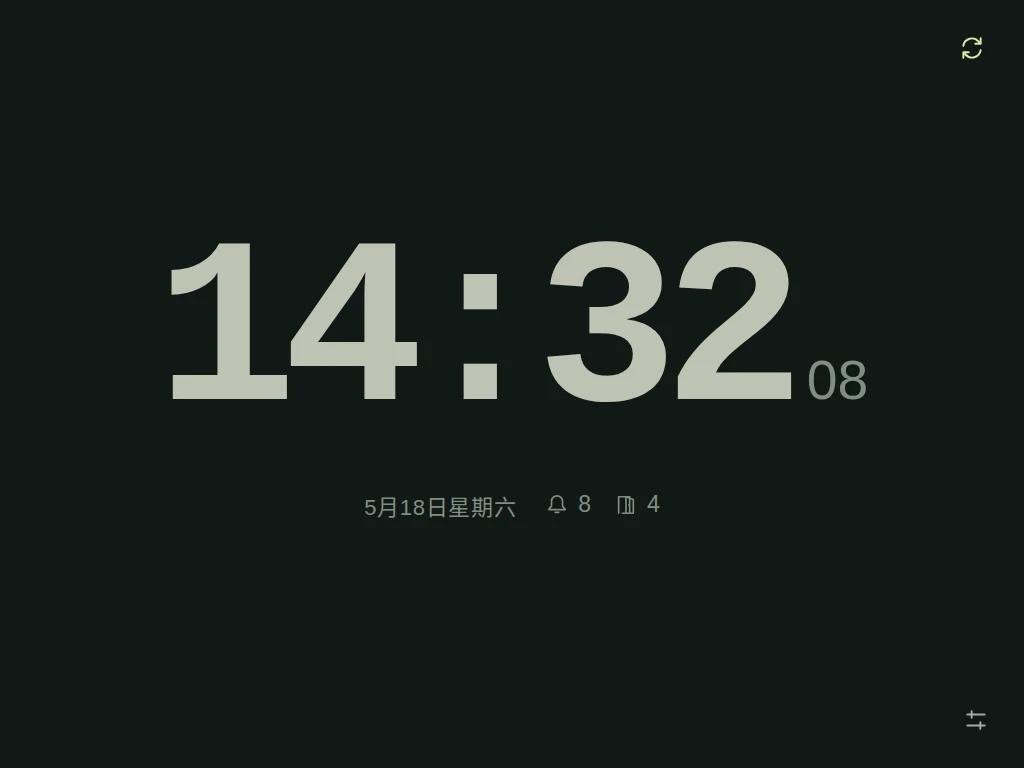
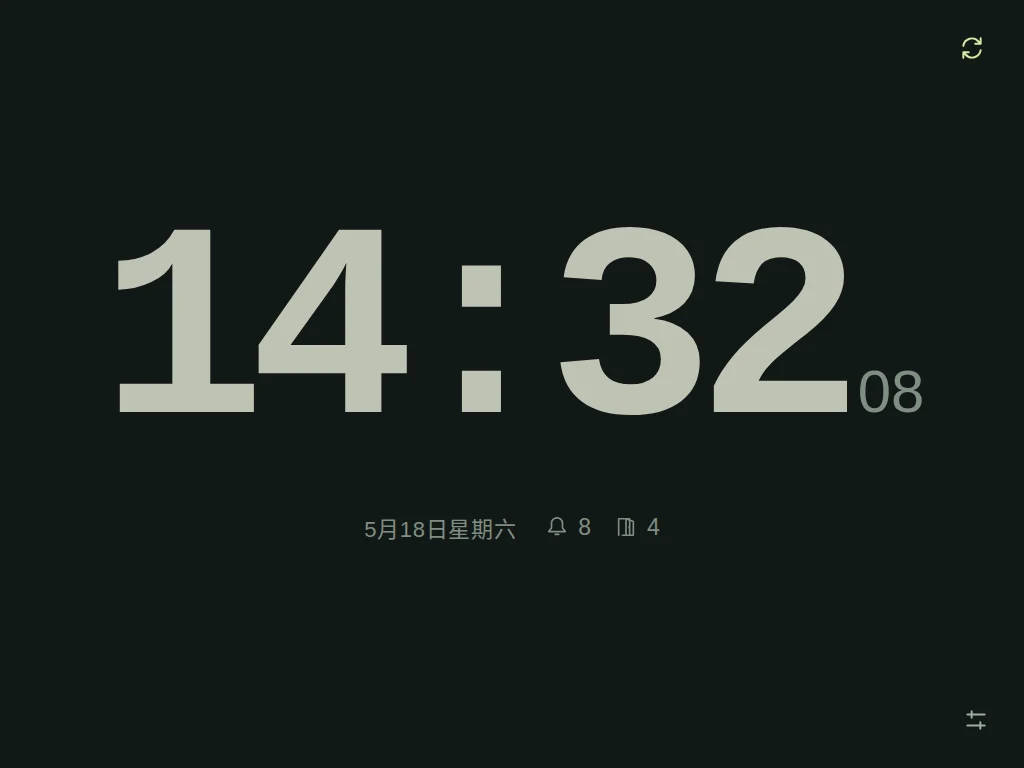
Improve tablet clock sizing and Safari fullscreen controls

diff --git a/docs/demo/index.html b/docs/demo/index.html
@@ -2,6 +2,6 @@
 <html lang="zh-CN"><meta charset="utf-8"><meta name="viewport" content="width=device-width, initial-scale=1">
 <title>Fermax Lynx · 界面图集</title><style>
 :root{color-scheme:dark;font-family:system-ui,sans-serif;background:#101d1c;color:#eceee6}*{box-sizing:border-box}body{margin:0}header{padding:28px 32px;border-bottom:1px solid #42534d}h1{font-size:32px;margin:0 0 12px}p{line-height:1.65;color:#b5c2b9}main{display:grid;grid-template-columns:280px minmax(0,1fr)}nav{padding:20px;display:grid;gap:8px;align-content:start;max-height:calc(100vh - 170px);overflow:auto;position:sticky;top:0}button{font:inherit;font-size:16px;text-align:left;color:inherit;border:1px solid #41514c;background:transparent;border-radius:8px;padding:12px;min-height:48px;cursor:pointer}button[aria-pressed=true]{background:#dbe9cd;color:#17231d}button:focus-visible,a:focus-visible{outline:3px solid #ebc777;outline-offset:3px}section{padding:24px;min-width:0}figure{margin:0}figure[hidden]{display:none}h2{margin:0;font-size:25px}img{display:block;max-width:100%;max-height:78vh;height:auto;width:auto;margin:20px auto;border:1px solid #41514c;border-radius:12px}a{color:#dbe9cd}@media(max-width:720px){main{display:block}nav{position:static;max-height:230px;grid-template-columns:repeat(2,minmax(0,1fr))}header,section{padding:20px}h1{font-size:27px}}
-</style><header><h1>Fermax Lynx · 界面图集</h1><p>这些 v0.6.1 预览由真实界面自动截图生成。住户、入口、视频与音频均为合成示例；Screenshots show version 0.6.1 using synthetic data.</p></header><main><nav aria-label="选择界面"><button type="button" data-index="0" aria-pressed="true">铃声提醒 · Sound attention</button><button type="button" data-index="1" aria-pressed="false">安静待机 · Quiet standby</button><button type="button" data-index="2" aria-pressed="false">连接异常 · Connection notice</button><button type="button" data-index="3" aria-pressed="false">今日活动 · Daily activity</button><button type="button" data-index="4" aria-pressed="false">待机统计 · Quiet activity</button><button type="button" data-index="5" aria-pressed="false">实体首页统计 · LCD daily activity</button><button type="button" data-index="6" aria-pressed="false">网关独立响铃 · Gateway sound</button><button type="button" data-index="7" aria-pressed="false">首选设备失联 · Missing output</button><button type="button" data-index="8" aria-pressed="false">实体屏幕设置 · LCD settings</button><button type="button" data-index="9" aria-pressed="false">实体屏幕声音 · LCD sound</button><button type="button" data-index="10" aria-pressed="false">实体输出选择 · LCD outputs</button><button type="button" data-index="11" aria-pressed="false">书页时钟 · Editorial</button><button type="button" data-index="12" aria-pressed="false">数字时钟 · Digital</button><button type="button" data-index="13" aria-pressed="false">模拟时钟 · Analog</button><button type="button" data-index="14" aria-pressed="false">电子管时钟 · Nixie</button><button type="button" data-index="15" aria-pressed="false">无秒显示 · Hidden seconds</button><button type="button" data-index="16" aria-pressed="false">话机授权 · Enrollment</button><button type="button" data-index="17" aria-pressed="false">话机偏好 · Preferences</button><button type="button" data-index="18" aria-pressed="false">最近活动 · Recent activity</button><button type="button" data-index="19" aria-pressed="false">入口预览 · Preview</button><button type="button" data-index="20" aria-pressed="false">来访画面 · Incoming visit</button><button type="button" data-index="21" aria-pressed="false">响铃结束 · Ring window ended</button><button type="button" data-index="22" aria-pressed="false">本次静音 · Muted visit</button><button type="button" data-index="23" aria-pressed="false">竖屏平板 · Portrait tablet</button><button type="button" data-index="24" aria-pressed="false">手机竖屏 · Narrow screen</button><button type="button" data-index="25" aria-pressed="false">手机横屏 · Short landscape</button><button type="button" data-index="26" aria-pressed="false">画面过期 · Stale frame</button><button type="button" data-index="27" aria-pressed="false">连接中断 · Offline</button><button type="button" data-index="28" aria-pressed="false">授权撤销 · Revoked</button><button type="button" data-index="29" aria-pressed="false">限时自动开门 · Timed policy</button><button type="button" data-index="30" aria-pressed="false">无时限自动开门 · Unlimited policy</button><button type="button" data-index="31" aria-pressed="false">管理页失联 · Unknown policy state</button><button type="button" data-index="32" aria-pressed="false">放大管理页 · 200% layout</button><button type="button" data-index="33" aria-pressed="false">设置导航 · Settings navigation</button><button type="button" data-index="34" aria-pressed="false">16 首铃声 · Ringtone library</button><button type="button" data-index="35" aria-pressed="false">管理员登录 · Sign in</button><button type="button" data-index="36" aria-pressed="false">管理首页 · Dashboard</button><button type="button" data-index="37" aria-pressed="false">内置铃声 · Built-in melodies</button><button type="button" data-index="38" aria-pressed="false">自定义音乐 · Custom music</button><button type="button" data-index="39" aria-pressed="false">网关配置 · Configuration</button><button type="button" data-index="40" aria-pressed="false">密码设置 · Password</button><button type="button" data-index="41" aria-pressed="false">事件日志 · Journal</button><button type="button" data-index="42" aria-pressed="false">设备管理 · Devices</button></nav><section aria-live="polite"><figure id="view-0"><figcaption><h2>铃声提醒 · Sound attention</h2><p>待机只在需要处理时显示声音图标，轻触进入声音设置。</p></figcaption><a href="phone-quiet-sound.webp"><img src="phone-quiet-sound.webp" alt="铃声提醒 · Sound attention" loading="lazy"></a></figure><figure id="view-1" hidden><figcaption><h2>安静待机 · Quiet standby</h2><p>中央时钟与一行辅助信息，自动开门启用时留角落提示。</p></figcaption><a href="phone-quiet-auto.webp"><img src="phone-quiet-auto.webp" alt="安静待机 · Quiet standby" loading="lazy"></a></figure><figure id="view-2" hidden><figcaption><h2>连接异常 · Connection notice</h2><p>断线显示文字提示，统计不可用，旧自动状态不冒充实时。</p></figcaption><a href="phone-quiet-offline.webp"><img src="phone-quiet-offline.webp" alt="连接异常 · Connection notice" loading="lazy"></a></figure><figure id="view-3" hidden><figcaption><h2>今日活动 · Daily activity</h2><p>来电与协议确认开门，按网关本地日期汇总。</p></figcaption><a href="admin-statistics.webp"><img src="admin-statistics.webp" alt="今日活动 · Daily activity" loading="lazy"></a></figure><figure id="view-4" hidden><figcaption><h2>待机统计 · Quiet activity</h2><p>图标与数字，轻触或聚焦显示统计口径。</p></figcaption><a href="phone-statistics.webp"><img src="phone-statistics.webp" alt="待机统计 · Quiet activity" loading="lazy"></a></figure><figure id="view-5" hidden><figcaption><h2>实体首页统计 · LCD daily activity</h2><p>保持大按钮，简明显示今日来电与确认开门。</p></figcaption><a href="lcd-home.webp"><img src="lcd-home.webp" alt="实体首页统计 · LCD daily activity" loading="lazy"></a></figure><figure id="view-6" hidden><figcaption><h2>网关独立响铃 · Gateway sound</h2><p>独立开关、音量、输出选择与明确的测试声音。</p></figcaption><a href="admin-gateway-sound.webp"><img src="admin-gateway-sound.webp" alt="网关独立响铃 · Gateway sound" loading="lazy"></a></figure><figure id="view-7" hidden><figcaption><h2>首选设备失联 · Missing output</h2><p>保留首选偏好，显示设备状态并自动降级。</p></figcaption><a href="admin-gateway-no-device.webp"><img src="admin-gateway-no-device.webp" alt="首选设备失联 · Missing output" loading="lazy"></a></figure><figure id="view-8" hidden><figcaption><h2>实体屏幕设置 · LCD settings</h2><p>声音与自动开门分别进入，保留大触控按钮。</p></figcaption><a href="lcd-settings.webp"><img src="lcd-settings.webp" alt="实体屏幕设置 · LCD settings" loading="lazy"></a></figure><figure id="view-9" hidden><figcaption><h2>实体屏幕声音 · LCD sound</h2><p>本机开关、音量、实际输出及三秒试音。</p></figcaption><a href="lcd-sound.webp"><img src="lcd-sound.webp" alt="实体屏幕声音 · LCD sound" loading="lazy"></a></figure><figure id="view-10" hidden><figcaption><h2>实体输出选择 · LCD outputs</h2><p>大按钮分页选择自动或具体设备。</p></figcaption><a href="lcd-outputs.webp"><img src="lcd-outputs.webp" alt="实体输出选择 · LCD outputs" loading="lazy"></a></figure><figure id="view-11" hidden><figcaption><h2>书页时钟 · Editorial</h2><p>舒展的衬线数字与低对比度状态。</p></figcaption><a href="clock-editorial.webp"><img src="clock-editorial.webp" alt="书页时钟 · Editorial" loading="lazy"></a></figure><figure id="view-12" hidden><figcaption><h2>数字时钟 · Digital</h2><p>醒目的数字，适合远距离查看。</p></figcaption><a href="clock-digital.webp"><img src="clock-digital.webp" alt="数字时钟 · Digital" loading="lazy"></a></figure><figure id="view-13" hidden><figcaption><h2>模拟时钟 · Analog</h2><p>刻度与指针；秒针可隐藏、跳动或平滑移动。</p></figcaption><a href="clock-analog.webp"><img src="clock-analog.webp" alt="模拟时钟 · Analog" loading="lazy"></a></figure><figure id="view-14" hidden><figcaption><h2>电子管时钟 · Nixie</h2><p>由 CSS 绘制的暖色玻璃与发光数字。</p></figcaption><a href="clock-nixie.webp"><img src="clock-nixie.webp" alt="电子管时钟 · Nixie" loading="lazy"></a></figure><figure id="view-15" hidden><figcaption><h2>无秒显示 · Hidden seconds</h2><p>隐藏秒数，让空闲界面更安静。</p></figcaption><a href="clock-nixie-quiet.webp"><img src="clock-nixie-quiet.webp" alt="无秒显示 · Hidden seconds" loading="lazy"></a></figure><figure id="view-16" hidden><figcaption><h2>话机授权 · Enrollment</h2><p>管理员选择设备名称与入口范围。</p></figcaption><a href="phone-enrollment.webp"><img src="phone-enrollment.webp" alt="话机授权 · Enrollment" loading="lazy"></a></figure><figure id="view-17" hidden><figcaption><h2>话机偏好 · Preferences</h2><p>本机时钟、秒针、音量与入口预览。</p></figcaption><a href="phone-preferences.webp"><img src="phone-preferences.webp" alt="话机偏好 · Preferences" loading="lazy"></a></figure><figure id="view-18" hidden><figcaption><h2>最近活动 · Recent activity</h2><p>展开查看最近三项活动。</p></figcaption><a href="phone-recent.webp"><img src="phone-recent.webp" alt="最近活动 · Recent activity" loading="lazy"></a></figure><figure id="view-19" hidden><figcaption><h2>入口预览 · Preview</h2><p>完整保留 4:3 画面，操作浮在画面上。</p></figcaption><a href="phone-preview.webp"><img src="phone-preview.webp" alt="入口预览 · Preview" loading="lazy"></a></figure><figure id="view-20" hidden><figcaption><h2>来访画面 · Incoming visit</h2><p>紧凑标题与大触控按钮，音乐按设定时长循环。</p></figcaption><a href="phone-incoming.webp"><img src="phone-incoming.webp" alt="来访画面 · Incoming visit" loading="lazy"></a></figure><figure id="view-21" hidden><figcaption><h2>响铃结束 · Ring window ended</h2><p>音乐停止后仍可查看画面和操作。</p></figcaption><a href="phone-ring-ended.webp"><img src="phone-ring-ended.webp" alt="响铃结束 · Ring window ended" loading="lazy"></a></figure><figure id="view-22" hidden><figcaption><h2>本次静音 · Muted visit</h2><p>只静音当前来访。</p></figcaption><a href="phone-muted.webp"><img src="phone-muted.webp" alt="本次静音 · Muted visit" loading="lazy"></a></figure><figure id="view-23" hidden><figcaption><h2>竖屏平板 · Portrait tablet</h2><p>完整画面居中，保留必要留白。</p></figcaption><a href="phone-portrait.webp"><img src="phone-portrait.webp" alt="竖屏平板 · Portrait tablet" loading="lazy"></a></figure><figure id="view-24" hidden><figcaption><h2>手机竖屏 · Narrow screen</h2><p>较窄屏幕仍保留完整画面与操作。</p></figcaption><a href="phone-mobile.webp"><img src="phone-mobile.webp" alt="手机竖屏 · Narrow screen" loading="lazy"></a></figure><figure id="view-25" hidden><figcaption><h2>手机横屏 · Short landscape</h2><p>短横屏使用紧凑的覆盖控件。</p></figcaption><a href="phone-wide.webp"><img src="phone-wide.webp" alt="手机横屏 · Short landscape" loading="lazy"></a></figure><figure id="view-26" hidden><figcaption><h2>画面过期 · Stale frame</h2><p>不把旧帧当成实时画面。</p></figcaption><a href="phone-stale-video.webp"><img src="phone-stale-video.webp" alt="画面过期 · Stale frame" loading="lazy"></a></figure><figure id="view-27" hidden><figcaption><h2>连接中断 · Offline</h2><p>状态清楚呈现，断线时禁用控制。</p></figcaption><a href="phone-offline.webp"><img src="phone-offline.webp" alt="连接中断 · Offline" loading="lazy"></a></figure><figure id="view-28" hidden><figcaption><h2>授权撤销 · Revoked</h2><p>撤销后退出话机，重新授权才能使用。</p></figcaption><a href="phone-revoked.webp"><img src="phone-revoked.webp" alt="授权撤销 · Revoked" loading="lazy"></a></figure><figure id="view-29" hidden><figcaption><h2>限时自动开门 · Timed policy</h2><p>已启用时仅显示状态、截止时间和停止按钮。</p></figcaption><a href="admin-auto-timed.webp"><img src="admin-auto-timed.webp" alt="限时自动开门 · Timed policy" loading="lazy"></a></figure><figure id="view-30" hidden><figcaption><h2>无时限自动开门 · Unlimited policy</h2><p>只提供停止操作，隐藏再次启用和时长选择。</p></figcaption><a href="admin-auto-unlimited.webp"><img src="admin-auto-unlimited.webp" alt="无时限自动开门 · Unlimited policy" loading="lazy"></a></figure><figure id="view-31" hidden><figcaption><h2>管理页失联 · Unknown policy state</h2><p>无法确认服务器状态时隐藏策略操作，恢复后重新读取。</p></figcaption><a href="admin-offline.webp"><img src="admin-offline.webp" alt="管理页失联 · Unknown policy state" loading="lazy"></a></figure><figure id="view-32" hidden><figcaption><h2>放大管理页 · 200% layout</h2><p>导航自然换行，入口按钮不重叠。</p></figcaption><a href="admin-zoom.webp"><img src="admin-zoom.webp" alt="放大管理页 · 200% layout" loading="lazy"></a></figure><figure id="view-33" hidden><figcaption><h2>设置导航 · Settings navigation</h2><p>铃声、话机设备、网关配置和密码按任务分区。</p></figcaption><a href="admin-settings.webp"><img src="admin-settings.webp" alt="设置导航 · Settings navigation" loading="lazy"></a></figure><figure id="view-34" hidden><figcaption><h2>16 首铃声 · Ringtone library</h2><p>点击选择并试听，保存后用于下一次来访。</p></figcaption><a href="admin-ringtone-library.webp"><img src="admin-ringtone-library.webp" alt="16 首铃声 · Ringtone library" loading="lazy"></a></figure><figure id="view-35" hidden><figcaption><h2>管理员登录 · Sign in</h2><p>独立的管理员登录入口。</p></figcaption><a href="admin-login.webp"><img src="admin-login.webp" alt="管理员登录 · Sign in" loading="lazy"></a></figure><figure id="view-36" hidden><figcaption><h2>管理首页 · Dashboard</h2><p>网关、入口、策略与活动概览。</p></figcaption><a href="admin-dashboard.webp"><img src="admin-dashboard.webp" alt="管理首页 · Dashboard" loading="lazy"></a></figure><figure id="view-37" hidden><figcaption><h2>内置铃声 · Built-in melodies</h2><p>管理员配置铃声及 15/30/45/60 秒时长。</p></figcaption><a href="admin-ringtone.webp"><img src="admin-ringtone.webp" alt="内置铃声 · Built-in melodies" loading="lazy"></a></figure><figure id="view-38" hidden><figcaption><h2>自定义音乐 · Custom music</h2><p>导入、试听并保存自己的音乐。</p></figcaption><a href="admin-custom-music.webp"><img src="admin-custom-music.webp" alt="自定义音乐 · Custom music" loading="lazy"></a></figure><figure id="view-39" hidden><figcaption><h2>网关配置 · Configuration</h2><p>身份、接口与入口配置；保存不改变系统网卡地址。</p></figcaption><a href="admin-network.webp"><img src="admin-network.webp" alt="网关配置 · Configuration" loading="lazy"></a></figure><figure id="view-40" hidden><figcaption><h2>密码设置 · Password</h2><p>修改管理员密码。</p></figcaption><a href="admin-password.webp"><img src="admin-password.webp" alt="密码设置 · Password" loading="lazy"></a></figure><figure id="view-41" hidden><figcaption><h2>事件日志 · Journal</h2><p>查询并导出网关活动记录。</p></figcaption><a href="admin-journal.webp"><img src="admin-journal.webp" alt="事件日志 · Journal" loading="lazy"></a></figure><figure id="view-42" hidden><figcaption><h2>设备管理 · Devices</h2><p>查看设备授权及其入口范围。</p></figcaption><a href="admin-devices.webp"><img src="admin-devices.webp" alt="设备管理 · Devices" loading="lazy"></a></figure></section></main><script>
+</style><header><h1>Fermax Lynx · 界面图集</h1><p>这些 v0.6.2 预览由真实界面自动截图生成。住户、入口、视频与音频均为合成示例；Screenshots show version 0.6.2 using synthetic data.</p></header><main><nav aria-label="选择界面"><button type="button" data-index="0" aria-pressed="true">铃声提醒 · Sound attention</button><button type="button" data-index="1" aria-pressed="false">安静待机 · Quiet standby</button><button type="button" data-index="2" aria-pressed="false">连接异常 · Connection notice</button><button type="button" data-index="3" aria-pressed="false">今日活动 · Daily activity</button><button type="button" data-index="4" aria-pressed="false">待机统计 · Quiet activity</button><button type="button" data-index="5" aria-pressed="false">实体首页统计 · LCD daily activity</button><button type="button" data-index="6" aria-pressed="false">网关独立响铃 · Gateway sound</button><button type="button" data-index="7" aria-pressed="false">首选设备失联 · Missing output</button><button type="button" data-index="8" aria-pressed="false">实体屏幕设置 · LCD settings</button><button type="button" data-index="9" aria-pressed="false">实体屏幕声音 · LCD sound</button><button type="button" data-index="10" aria-pressed="false">实体输出选择 · LCD outputs</button><button type="button" data-index="11" aria-pressed="false">书页时钟 · Editorial</button><button type="button" data-index="12" aria-pressed="false">数字时钟 · Digital</button><button type="button" data-index="13" aria-pressed="false">模拟时钟 · Analog</button><button type="button" data-index="14" aria-pressed="false">电子管时钟 · Nixie</button><button type="button" data-index="15" aria-pressed="false">无秒显示 · Hidden seconds</button><button type="button" data-index="16" aria-pressed="false">话机授权 · Enrollment</button><button type="button" data-index="17" aria-pressed="false">话机偏好 · Preferences</button><button type="button" data-index="18" aria-pressed="false">最近活动 · Recent activity</button><button type="button" data-index="19" aria-pressed="false">入口预览 · Preview</button><button type="button" data-index="20" aria-pressed="false">来访画面 · Incoming visit</button><button type="button" data-index="21" aria-pressed="false">响铃结束 · Ring window ended</button><button type="button" data-index="22" aria-pressed="false">本次静音 · Muted visit</button><button type="button" data-index="23" aria-pressed="false">竖屏平板 · Portrait tablet</button><button type="button" data-index="24" aria-pressed="false">手机竖屏 · Narrow screen</button><button type="button" data-index="25" aria-pressed="false">手机横屏 · Short landscape</button><button type="button" data-index="26" aria-pressed="false">画面过期 · Stale frame</button><button type="button" data-index="27" aria-pressed="false">连接中断 · Offline</button><button type="button" data-index="28" aria-pressed="false">授权撤销 · Revoked</button><button type="button" data-index="29" aria-pressed="false">限时自动开门 · Timed policy</button><button type="button" data-index="30" aria-pressed="false">无时限自动开门 · Unlimited policy</button><button type="button" data-index="31" aria-pressed="false">管理页失联 · Unknown policy state</button><button type="button" data-index="32" aria-pressed="false">放大管理页 · 200% layout</button><button type="button" data-index="33" aria-pressed="false">设置导航 · Settings navigation</button><button type="button" data-index="34" aria-pressed="false">16 首铃声 · Ringtone library</button><button type="button" data-index="35" aria-pressed="false">管理员登录 · Sign in</button><button type="button" data-index="36" aria-pressed="false">管理首页 · Dashboard</button><button type="button" data-index="37" aria-pressed="false">内置铃声 · Built-in melodies</button><button type="button" data-index="38" aria-pressed="false">自定义音乐 · Custom music</button><button type="button" data-index="39" aria-pressed="false">网关配置 · Configuration</button><button type="button" data-index="40" aria-pressed="false">密码设置 · Password</button><button type="button" data-index="41" aria-pressed="false">事件日志 · Journal</button><button type="button" data-index="42" aria-pressed="false">设备管理 · Devices</button></nav><section aria-live="polite"><figure id="view-0"><figcaption><h2>铃声提醒 · Sound attention</h2><p>待机只在需要处理时显示声音图标，轻触进入声音设置。</p></figcaption><a href="phone-quiet-sound.webp"><img src="phone-quiet-sound.webp" alt="铃声提醒 · Sound attention" loading="lazy"></a></figure><figure id="view-1" hidden><figcaption><h2>安静待机 · Quiet standby</h2><p>中央时钟与一行辅助信息，自动开门启用时留角落提示。</p></figcaption><a href="phone-quiet-auto.webp"><img src="phone-quiet-auto.webp" alt="安静待机 · Quiet standby" loading="lazy"></a></figure><figure id="view-2" hidden><figcaption><h2>连接异常 · Connection notice</h2><p>断线显示文字提示，统计不可用，旧自动状态不冒充实时。</p></figcaption><a href="phone-quiet-offline.webp"><img src="phone-quiet-offline.webp" alt="连接异常 · Connection notice" loading="lazy"></a></figure><figure id="view-3" hidden><figcaption><h2>今日活动 · Daily activity</h2><p>来电与协议确认开门，按网关本地日期汇总。</p></figcaption><a href="admin-statistics.webp"><img src="admin-statistics.webp" alt="今日活动 · Daily activity" loading="lazy"></a></figure><figure id="view-4" hidden><figcaption><h2>待机统计 · Quiet activity</h2><p>图标与数字，轻触或聚焦显示统计口径。</p></figcaption><a href="phone-statistics.webp"><img src="phone-statistics.webp" alt="待机统计 · Quiet activity" loading="lazy"></a></figure><figure id="view-5" hidden><figcaption><h2>实体首页统计 · LCD daily activity</h2><p>保持大按钮，简明显示今日来电与确认开门。</p></figcaption><a href="lcd-home.webp"><img src="lcd-home.webp" alt="实体首页统计 · LCD daily activity" loading="lazy"></a></figure><figure id="view-6" hidden><figcaption><h2>网关独立响铃 · Gateway sound</h2><p>独立开关、音量、输出选择与明确的测试声音。</p></figcaption><a href="admin-gateway-sound.webp"><img src="admin-gateway-sound.webp" alt="网关独立响铃 · Gateway sound" loading="lazy"></a></figure><figure id="view-7" hidden><figcaption><h2>首选设备失联 · Missing output</h2><p>保留首选偏好，显示设备状态并自动降级。</p></figcaption><a href="admin-gateway-no-device.webp"><img src="admin-gateway-no-device.webp" alt="首选设备失联 · Missing output" loading="lazy"></a></figure><figure id="view-8" hidden><figcaption><h2>实体屏幕设置 · LCD settings</h2><p>声音与自动开门分别进入，保留大触控按钮。</p></figcaption><a href="lcd-settings.webp"><img src="lcd-settings.webp" alt="实体屏幕设置 · LCD settings" loading="lazy"></a></figure><figure id="view-9" hidden><figcaption><h2>实体屏幕声音 · LCD sound</h2><p>本机开关、音量、实际输出及三秒试音。</p></figcaption><a href="lcd-sound.webp"><img src="lcd-sound.webp" alt="实体屏幕声音 · LCD sound" loading="lazy"></a></figure><figure id="view-10" hidden><figcaption><h2>实体输出选择 · LCD outputs</h2><p>大按钮分页选择自动或具体设备。</p></figcaption><a href="lcd-outputs.webp"><img src="lcd-outputs.webp" alt="实体输出选择 · LCD outputs" loading="lazy"></a></figure><figure id="view-11" hidden><figcaption><h2>书页时钟 · Editorial</h2><p>舒展的衬线数字与低对比度状态。</p></figcaption><a href="clock-editorial.webp"><img src="clock-editorial.webp" alt="书页时钟 · Editorial" loading="lazy"></a></figure><figure id="view-12" hidden><figcaption><h2>数字时钟 · Digital</h2><p>醒目的数字，适合远距离查看。</p></figcaption><a href="clock-digital.webp"><img src="clock-digital.webp" alt="数字时钟 · Digital" loading="lazy"></a></figure><figure id="view-13" hidden><figcaption><h2>模拟时钟 · Analog</h2><p>刻度与指针；秒针可隐藏、跳动或平滑移动。</p></figcaption><a href="clock-analog.webp"><img src="clock-analog.webp" alt="模拟时钟 · Analog" loading="lazy"></a></figure><figure id="view-14" hidden><figcaption><h2>电子管时钟 · Nixie</h2><p>由 CSS 绘制的暖色玻璃与发光数字。</p></figcaption><a href="clock-nixie.webp"><img src="clock-nixie.webp" alt="电子管时钟 · Nixie" loading="lazy"></a></figure><figure id="view-15" hidden><figcaption><h2>无秒显示 · Hidden seconds</h2><p>隐藏秒数，让空闲界面更安静。</p></figcaption><a href="clock-nixie-quiet.webp"><img src="clock-nixie-quiet.webp" alt="无秒显示 · Hidden seconds" loading="lazy"></a></figure><figure id="view-16" hidden><figcaption><h2>话机授权 · Enrollment</h2><p>管理员选择设备名称与入口范围。</p></figcaption><a href="phone-enrollment.webp"><img src="phone-enrollment.webp" alt="话机授权 · Enrollment" loading="lazy"></a></figure><figure id="view-17" hidden><figcaption><h2>话机偏好 · Preferences</h2><p>本机时钟、秒针、音量与入口预览。</p></figcaption><a href="phone-preferences.webp"><img src="phone-preferences.webp" alt="话机偏好 · Preferences" loading="lazy"></a></figure><figure id="view-18" hidden><figcaption><h2>最近活动 · Recent activity</h2><p>展开查看最近三项活动。</p></figcaption><a href="phone-recent.webp"><img src="phone-recent.webp" alt="最近活动 · Recent activity" loading="lazy"></a></figure><figure id="view-19" hidden><figcaption><h2>入口预览 · Preview</h2><p>完整保留 4:3 画面，操作浮在画面上。</p></figcaption><a href="phone-preview.webp"><img src="phone-preview.webp" alt="入口预览 · Preview" loading="lazy"></a></figure><figure id="view-20" hidden><figcaption><h2>来访画面 · Incoming visit</h2><p>紧凑标题与大触控按钮，音乐按设定时长循环。</p></figcaption><a href="phone-incoming.webp"><img src="phone-incoming.webp" alt="来访画面 · Incoming visit" loading="lazy"></a></figure><figure id="view-21" hidden><figcaption><h2>响铃结束 · Ring window ended</h2><p>音乐停止后仍可查看画面和操作。</p></figcaption><a href="phone-ring-ended.webp"><img src="phone-ring-ended.webp" alt="响铃结束 · Ring window ended" loading="lazy"></a></figure><figure id="view-22" hidden><figcaption><h2>本次静音 · Muted visit</h2><p>只静音当前来访。</p></figcaption><a href="phone-muted.webp"><img src="phone-muted.webp" alt="本次静音 · Muted visit" loading="lazy"></a></figure><figure id="view-23" hidden><figcaption><h2>竖屏平板 · Portrait tablet</h2><p>完整画面居中，保留必要留白。</p></figcaption><a href="phone-portrait.webp"><img src="phone-portrait.webp" alt="竖屏平板 · Portrait tablet" loading="lazy"></a></figure><figure id="view-24" hidden><figcaption><h2>手机竖屏 · Narrow screen</h2><p>较窄屏幕仍保留完整画面与操作。</p></figcaption><a href="phone-mobile.webp"><img src="phone-mobile.webp" alt="手机竖屏 · Narrow screen" loading="lazy"></a></figure><figure id="view-25" hidden><figcaption><h2>手机横屏 · Short landscape</h2><p>短横屏使用紧凑的覆盖控件。</p></figcaption><a href="phone-wide.webp"><img src="phone-wide.webp" alt="手机横屏 · Short landscape" loading="lazy"></a></figure><figure id="view-26" hidden><figcaption><h2>画面过期 · Stale frame</h2><p>不把旧帧当成实时画面。</p></figcaption><a href="phone-stale-video.webp"><img src="phone-stale-video.webp" alt="画面过期 · Stale frame" loading="lazy"></a></figure><figure id="view-27" hidden><figcaption><h2>连接中断 · Offline</h2><p>状态清楚呈现，断线时禁用控制。</p></figcaption><a href="phone-offline.webp"><img src="phone-offline.webp" alt="连接中断 · Offline" loading="lazy"></a></figure><figure id="view-28" hidden><figcaption><h2>授权撤销 · Revoked</h2><p>撤销后退出话机，重新授权才能使用。</p></figcaption><a href="phone-revoked.webp"><img src="phone-revoked.webp" alt="授权撤销 · Revoked" loading="lazy"></a></figure><figure id="view-29" hidden><figcaption><h2>限时自动开门 · Timed policy</h2><p>已启用时仅显示状态、截止时间和停止按钮。</p></figcaption><a href="admin-auto-timed.webp"><img src="admin-auto-timed.webp" alt="限时自动开门 · Timed policy" loading="lazy"></a></figure><figure id="view-30" hidden><figcaption><h2>无时限自动开门 · Unlimited policy</h2><p>只提供停止操作，隐藏再次启用和时长选择。</p></figcaption><a href="admin-auto-unlimited.webp"><img src="admin-auto-unlimited.webp" alt="无时限自动开门 · Unlimited policy" loading="lazy"></a></figure><figure id="view-31" hidden><figcaption><h2>管理页失联 · Unknown policy state</h2><p>无法确认服务器状态时隐藏策略操作，恢复后重新读取。</p></figcaption><a href="admin-offline.webp"><img src="admin-offline.webp" alt="管理页失联 · Unknown policy state" loading="lazy"></a></figure><figure id="view-32" hidden><figcaption><h2>放大管理页 · 200% layout</h2><p>导航自然换行，入口按钮不重叠。</p></figcaption><a href="admin-zoom.webp"><img src="admin-zoom.webp" alt="放大管理页 · 200% layout" loading="lazy"></a></figure><figure id="view-33" hidden><figcaption><h2>设置导航 · Settings navigation</h2><p>铃声、话机设备、网关配置和密码按任务分区。</p></figcaption><a href="admin-settings.webp"><img src="admin-settings.webp" alt="设置导航 · Settings navigation" loading="lazy"></a></figure><figure id="view-34" hidden><figcaption><h2>16 首铃声 · Ringtone library</h2><p>点击选择并试听，保存后用于下一次来访。</p></figcaption><a href="admin-ringtone-library.webp"><img src="admin-ringtone-library.webp" alt="16 首铃声 · Ringtone library" loading="lazy"></a></figure><figure id="view-35" hidden><figcaption><h2>管理员登录 · Sign in</h2><p>独立的管理员登录入口。</p></figcaption><a href="admin-login.webp"><img src="admin-login.webp" alt="管理员登录 · Sign in" loading="lazy"></a></figure><figure id="view-36" hidden><figcaption><h2>管理首页 · Dashboard</h2><p>网关、入口、策略与活动概览。</p></figcaption><a href="admin-dashboard.webp"><img src="admin-dashboard.webp" alt="管理首页 · Dashboard" loading="lazy"></a></figure><figure id="view-37" hidden><figcaption><h2>内置铃声 · Built-in melodies</h2><p>管理员配置铃声及 15/30/45/60 秒时长。</p></figcaption><a href="admin-ringtone.webp"><img src="admin-ringtone.webp" alt="内置铃声 · Built-in melodies" loading="lazy"></a></figure><figure id="view-38" hidden><figcaption><h2>自定义音乐 · Custom music</h2><p>导入、试听并保存自己的音乐。</p></figcaption><a href="admin-custom-music.webp"><img src="admin-custom-music.webp" alt="自定义音乐 · Custom music" loading="lazy"></a></figure><figure id="view-39" hidden><figcaption><h2>网关配置 · Configuration</h2><p>身份、接口与入口配置；保存不改变系统网卡地址。</p></figcaption><a href="admin-network.webp"><img src="admin-network.webp" alt="网关配置 · Configuration" loading="lazy"></a></figure><figure id="view-40" hidden><figcaption><h2>密码设置 · Password</h2><p>修改管理员密码。</p></figcaption><a href="admin-password.webp"><img src="admin-password.webp" alt="密码设置 · Password" loading="lazy"></a></figure><figure id="view-41" hidden><figcaption><h2>事件日志 · Journal</h2><p>查询并导出网关活动记录。</p></figcaption><a href="admin-journal.webp"><img src="admin-journal.webp" alt="事件日志 · Journal" loading="lazy"></a></figure><figure id="view-42" hidden><figcaption><h2>设备管理 · Devices</h2><p>查看设备授权及其入口范围。</p></figcaption><a href="admin-devices.webp"><img src="admin-devices.webp" alt="设备管理 · Devices" loading="lazy"></a></figure></section></main><script>
 document.querySelectorAll('nav button').forEach(button=>button.addEventListener('click',()=>{document.querySelectorAll('nav button').forEach(item=>item.setAttribute('aria-pressed',String(item===button)));document.querySelectorAll('figure').forEach((figure,index)=>figure.hidden=String(index)!==button.dataset.index)}));
 </script></html>

diff --git a/fermax/web/phone.js b/fermax/web/phone.js
@@ -17,6 +17,7 @@
     open_denied:'开门被拒绝', control_failed:'操作未完成'};
 
   const icons = {
+    fullscreen:'M8 3H3v5m13-5h5v5M3 16v5h5m8 0h5v-5',
     bell:'M6 8a6 6 0 0 1 12 0v5l3 4H3l3-4V8m4 12h4',
     door:'M4 21V3h12v18M8 21h12V6l-8-3v18m3-9h.01',
     link:'M9 15l6-6M8 17l-1 1a4 4 0 0 1-6-6l4-4a4 4 0 0 1 6 0m2 0 1-1a4 4 0 0 1 6 6l-4 4a4 4 0 0 1-6 0',
@@ -117,6 +118,12 @@
     if (!wall) return;
     const face=$('#clockFace'), width=face.clientWidth;
     if(width && face.style.getPropertyValue('--face-width')!==width+'px') face.style.setProperty('--face-width',width+'px');
+    const idle=$('#idle'), layout=getComputedStyle(idle);
+    // clientWidth uses layout units, so divide viewport height by CSS zoom as well.
+    const scale=idle.clientWidth ? idle.getBoundingClientRect().width/idle.clientWidth : 1;
+    const height=Math.max(80,window.innerHeight/(scale || 1)-parseFloat(layout.paddingTop)-parseFloat(layout.paddingBottom)-$('.idle-summary').offsetHeight-26);
+    const rounded=Math.floor(height)+'px';
+    if(face.style.getPropertyValue('--clock-height')!==rounded) face.style.setProperty('--clock-height',rounded);
     const now = clockDate(); clock.update(now);
     $('#date').textContent = now.toLocaleDateString('zh-CN', {timeZone:'UTC',month:'long',day:'numeric',weekday:'long'}) +
       (online && state && state.clock_synchronized ? '' : ' · 时间未同步');
@@ -309,6 +316,45 @@
       wakeLock.addEventListener('release', () => { $('#wakeHint').textContent = '保持亮屏已释放，请检查系统自动锁定设置。'; });
     } catch (_) { $('#wakeHint').textContent = '无法保持亮屏，请在系统设置中调整自动锁定。'; }
   }
+  const standaloneQuery=matchMedia('(display-mode: standalone)');
+  const homeScreenHint='iPad / iPhone：在 Safari 的分享菜单选择“添加到主屏幕”，再从图标打开。独立窗口可能需要重新授权话机。';
+  function fullscreenElement(){return document.fullscreenElement || document.webkitFullscreenElement;}
+  function fullscreenRequest(){
+    const root=document.documentElement;
+    if(typeof root.requestFullscreen==='function' && document.fullscreenEnabled!==false) return root.requestFullscreen;
+    if(typeof root.webkitRequestFullscreen==='function' && document.webkitFullscreenEnabled!==false) return root.webkitRequestFullscreen;
+    return null;
+  }
+  function updateFullscreen(){
+    const active=!!fullscreenElement(),standalone=navigator.standalone===true || standaloneQuery.matches;
+    const button=$('#fullscreenButton');
+    button.hidden=standalone && !active;
+    icon(button,'fullscreen',active?'退出全屏':fullscreenRequest()?'进入全屏':'如何全屏显示');
+    button.setAttribute('aria-pressed',String(active));
+    $('#fullscreenHint').textContent=active?'已进入全屏，可通过浏览器手势或此按钮退出。':standalone?'已从主屏幕以独立窗口打开。':fullscreenRequest()?'轻触进入全屏。常驻使用也可从主屏幕图标打开。':homeScreenHint;
+    requestAnimationFrame(updateClock);
+  }
+  function fullscreenFailed(){updateFullscreen();$('#fullscreenHint').textContent='浏览器未允许切换全屏。请重新轻触按钮，或使用主屏幕方式。'+homeScreenHint;}
+  $('#fullscreenButton').addEventListener('click', async () => {
+    try{
+      if(fullscreenElement()){
+        const exit=document.exitFullscreen || document.webkitExitFullscreen;
+        if(!exit) throw Error('Fullscreen exit unavailable');
+        await exit.call(document);
+      }else{
+        const request=fullscreenRequest();
+        if(!request){$('#fullscreenHint').textContent=homeScreenHint;return;}
+        // Invoke synchronously in the click handler, before any awaited work.
+        await request.call(document.documentElement);
+      }
+      updateFullscreen();
+    }catch(_){fullscreenFailed();}
+  });
+  for(const name of ['fullscreenchange','webkitfullscreenchange']) document.addEventListener(name,updateFullscreen);
+  for(const name of ['fullscreenerror','webkitfullscreenerror']) document.addEventListener(name,fullscreenFailed);
+  if(standaloneQuery.addEventListener) standaloneQuery.addEventListener('change',updateFullscreen);
+  else if(standaloneQuery.addListener) standaloneQuery.addListener(updateFullscreen);
+  updateFullscreen();
   $('#enableSound').addEventListener('click', async () => {
     try {
       await sound.enable(); soundFailed=false; attention();

diff --git a/fermax/web/phone.css b/fermax/web/phone.css
@@ -41,3 +41,24 @@
 
 [data-clock=analog] .analog-clock{max-width:100%;height:auto}[data-clock=nixie] .nixie-clock{gap:min(12px,calc(var(--face-width,90vw)*.01));max-width:100%}.tube{width:min(176px,calc(var(--face-width,90vw)*.138));height:min(278px,calc(var(--face-width,90vw)*.22))}.tube-digit{font-size:min(188px,calc(var(--face-width,90vw)*.15))}.tube-colon{font-size:min(72px,calc(var(--face-width,90vw)*.07))}.tube-seconds{gap:min(6px,calc(var(--face-width,90vw)*.006));padding-bottom:min(10px,calc(var(--face-width,90vw)*.01))}.tube-seconds .tube{width:min(66px,calc(var(--face-width,90vw)*.05));height:min(130px,calc(var(--face-width,90vw)*.1))}.tube-seconds .tube-digit{font-size:min(80px,calc(var(--face-width,90vw)*.06))}
 .clock{font-size:min(310px,calc(var(--face-width,90vw)*.255))}.clock-seconds{font-size:min(68px,calc(var(--face-width,90vw)*.06))}
+
+/* Fill the available standby area, including tablet and standalone viewports. */
+.idle{padding-top:84px;padding-bottom:100px}
+.numeric-clock{gap:calc(var(--face-width,90vw)*.012)}
+.clock{font-size:min(calc(var(--face-width,90vw)*.36),calc(var(--clock-height,60vh)*.85))}
+.clock-seconds{font-size:min(calc(var(--face-width,90vw)*.065),calc(var(--clock-height,60vh)*.17))}
+[data-clock=digital] .clock{font-size:min(calc(var(--face-width,90vw)*.30),calc(var(--clock-height,60vh)*.85))}
+[data-seconds=hidden] .clock{font-size:min(calc(var(--face-width,90vw)*.41),calc(var(--clock-height,60vh)*.85))}
+[data-clock=digital][data-seconds=hidden] .clock{font-size:min(calc(var(--face-width,90vw)*.34),calc(var(--clock-height,60vh)*.85))}
+[data-clock=analog] .analog-clock{width:min(calc(var(--face-width,90vw)*.92),var(--clock-height,60vh));height:auto}
+.nixie-clock{--tube-span:min(var(--face-width,90vw),calc(var(--clock-height,60vh)*3.1));--tube-width:.175}
+[data-seconds=hidden] .nixie-clock{--tube-width:.205}
+.tube{width:calc(var(--tube-span)*var(--tube-width));height:calc(var(--tube-span)*.30)}
+.tube-digit{font-size:calc(var(--tube-span)*.20)}
+.tube-colon{font-size:calc(var(--tube-span)*.07)}
+.tube-seconds .tube{width:calc(var(--tube-span)*.055);height:calc(var(--tube-span)*.13)}
+.tube-seconds .tube-digit{font-size:calc(var(--tube-span)*.075)}
+.screen-preferences{display:flex;align-items:center;gap:16px;flex-wrap:wrap;margin:16px 0}
+#fullscreenButton{display:inline-flex;align-items:center;justify-content:center;gap:12px}
+#fullscreenHint{flex:1;min-width:min(250px,100%);margin:0}
+@media(max-height:550px) and (orientation:landscape){.idle{padding-top:70px;padding-bottom:85px}}

diff --git a/fermax/web/phone.html b/fermax/web/phone.html
@@ -3,6 +3,8 @@
 <head>
   <meta charset="utf-8">
   <meta name="viewport" content="width=device-width, initial-scale=1, viewport-fit=cover">
+  <meta name="apple-mobile-web-app-capable" content="yes">
+  <meta name="apple-mobile-web-app-title" content="LYNX 话机">
   <meta name="theme-color" content="#111916">
   <title>LYNX · 话机</title>
   <link rel="stylesheet" href="/phone.css">
@@ -46,6 +48,7 @@
         <div class="controls-head"><div><h2 id="deviceName">话机设置</h2><a class="manage-link" href="/">管理登录 ↗</a></div><button id="hideControls" aria-label="收起操作面板">收起 ↓</button></div>
       <div class="statusbar"><span id="gatewayStatus">◌ 网关连接中</span><span id="networkStatus">○ 门禁待连接</span><span id="autoStatus">○ 自动开门待同步</span><span id="soundStatus">♪ 铃声未启用</span></div>
         <div id="panels" class="panel-buttons"></div>
+        <div class="screen-preferences"><button id="fullscreenButton" aria-describedby="fullscreenHint">进入全屏</button><p id="fullscreenHint" class="preference-note" role="status"></p></div>
         <div class="display-preferences"><label>时钟样式<select id="clockStyle"><option value="editorial">雅致 · 数字时钟</option><option value="digital">清晰 · 电子时钟</option><option value="analog">经典 · 模拟表盘</option><option value="nixie">暖光 · 电子管</option></select></label><label>秒针 / 秒数<select id="secondsMode"><option value="hidden">隐藏 · 安静显示</option><option value="step">显示 · 每秒跳动</option><option value="sweep">显示 · 表盘平滑扫秒</option></select></label></div>
         <p class="preference-note">待机图标：门铃数字是今日来电，门扇数字是今日已确认开门（含手动与自动，仅协议确认）。仅统计此话机获授权的入口，按网关本地日期换日。轻触图标可查看提示。</p><p class="preference-note">显示偏好只用于这台设备。铃声音乐与时长由管理员统一设置。</p>
         <div class="preferences"><button id="enableSound">启用并试听铃声</button><label>铃声音量<input id="volume" type="range" min="0" max="100" value="35"></label><button id="logout">退出并撤销此话机</button></div>

diff --git a/tools/build_demo_gallery.py b/tools/build_demo_gallery.py
@@ -64,8 +64,8 @@ def main():
     for item in images.values():
         if hashlib.sha256((folder/item['file']).read_bytes()).hexdigest() != item['sha256']:
             raise SystemExit('Image hash mismatch: '+item['file'])
-    intro = ('这些 v0.6.1 预览由真实界面自动截图生成。住户、入口、视频与音频均为合成示例；'
-             'Screenshots show version 0.6.1 using synthetic data.')
+    intro = ('这些 v0.6.2 预览由真实界面自动截图生成。住户、入口、视频与音频均为合成示例；'
+             'Screenshots show version 0.6.2 using synthetic data.')
     markdown = ['# 界面图集 · Interface gallery', intro,
                 '[中文手册](user-guide.zh-CN.md) · [English guide](user-guide.md) · [离线交互图集](demo/index.html)',
                 '下载仓库后在浏览器打开 `docs/demo/index.html` 可切换预览，打开 [sound.html](demo/sound.html) 可离线试听 16 首铃声。GitHub 页面可直接浏览以下全部截图。']

diff --git a/docs/phone.md b/docs/phone.md
@@ -158,3 +158,15 @@ The standby bell and door icons show daily incoming visits and confirmed opening
 ### Quiet standby regression
 
 Standby shows clock/date/counts with contextual corner indicators; all four detailed statuses are inside the accessible controls dialog. The envelope/authentication/control API is unchanged. Run `PYTHON=python3 node tests/phone_quiet.cjs` (Chromium or WebKit) for contextual alerts, zero volume, persistent playback refusal, scoped panel focus, Escape/Tab/backdrop dismissal and absence of unintended control requests. The main experience script generates 43 synthetic previews including disconnected standby and sound attention.
+
+## Larger clocks and fullscreen on iPad
+
+All four clocks expand within the available standby width and height; hiding seconds leaves more space for the main time. Open the controls panel and tap **Enter fullscreen** (进入全屏). Use the same button or browser gesture to exit. Loading, incoming calls and leaving fullscreen never automatically request fullscreen.
+
+The page detects the standard API and the older WebKit-prefixed API. iPadOS 16.4 added the standard API; actual availability varies with browser and system version. Requests must originate from a user gesture and may be refused. Unsupported or refused requests show a Home Screen alternative without changing settings.
+
+For iPad/iPhone: Safari **Share → Add to Home Screen**, then launch the new icon. Apple standalone metadata enables an app-like window without the usual Safari toolbars. A Home Screen window may require separate administrator login and phone enrollment. Standalone mode is distinct from Fullscreen API and does not prevent auto-lock or guarantee background ringing.
+
+Sources: [Safari 16.4](https://webkit.org/blog/13966/webkit-features-in-safari-16-4/), [Fullscreen user activation](https://fullscreen.spec.whatwg.org/), [Apple standalone configuration](https://developer.apple.com/library/archive/documentation/AppleApplications/Reference/SafariWebContent/ConfiguringWebApplications/ConfiguringWebApplications.html).
+
+`PYTHON=python3 node tests/phone_screen.cjs` checks synthetic standard/legacy capability, rejected requests, missing APIs, external exit, standalone state, user gestures and tablet/phone clock bounds. Browser API mocks validate handling, not physical iPad support.

diff --git a/docs/user-guide.md b/docs/user-guide.md
@@ -177,3 +177,13 @@ Use Escape to close and Tab to navigate. An active panel focus prevents timed di
 ![Quiet standby](demo/phone-quiet-auto.webp)
 ![Sound attention](demo/phone-quiet-sound.webp)
 ![Disconnected](demo/phone-quiet-offline.webp)
+
+## Larger clocks and fullscreen on iPad
+
+All four clocks expand within the available standby width and height; hiding seconds leaves more space for the main time. Open the controls panel and tap **Enter fullscreen** (进入全屏). Use the same button or browser gesture to exit. Loading, incoming calls and leaving fullscreen never automatically request fullscreen.
+
+The page detects the standard API and the older WebKit-prefixed API. iPadOS 16.4 added the standard API; actual availability varies with browser and system version. Requests must originate from a user gesture and may be refused. Unsupported or refused requests show a Home Screen alternative without changing settings.
+
+For iPad/iPhone: Safari **Share → Add to Home Screen**, then launch the new icon. Apple standalone metadata enables an app-like window without the usual Safari toolbars. A Home Screen window may require separate administrator login and phone enrollment. Standalone mode is distinct from Fullscreen API and does not prevent auto-lock or guarantee background ringing.
+
+Sources: [Safari 16.4](https://webkit.org/blog/13966/webkit-features-in-safari-16-4/), [Fullscreen user activation](https://fullscreen.spec.whatwg.org/), [Apple standalone configuration](https://developer.apple.com/library/archive/documentation/AppleApplications/Reference/SafariWebContent/ConfiguringWebApplications/ConfiguringWebApplications.html).

diff --git a/docs/user-guide.zh-CN.md b/docs/user-guide.zh-CN.md
@@ -172,3 +172,13 @@ python3 -m fermax.admin --state-dir /var/lib/fermax password
 ![安静待机](demo/phone-quiet-auto.webp)
 ![声音提示](demo/phone-quiet-sound.webp)
 ![连接中断](demo/phone-quiet-offline.webp)
+
+## iPad 大时钟与全屏
+
+四种待机时钟按可用宽高放大，隐藏秒数时主时钟会进一步扩展。打开操作面板，轻触“进入全屏”；全屏后可用同一按钮或浏览器手势退出。页面不会在加载、来访或用户退出后自动强制全屏。
+
+Safari 的支持随系统版本而异：iPadOS 16.4 起提供标准 Fullscreen API，旧版尝试 WebKit 接口，以实际能力检测为准。请求仍需用户点击，浏览器可能拒绝；拒绝时会保留普通页面并显示操作提示。
+
+常驻 iPad / iPhone 推荐：Safari 分享 → 添加到主屏幕 → 从新图标打开。页面声明 Apple 独立窗口模式，可减少地址栏和工具栏占用。主屏幕窗口可能不共享原 Safari 的设备会话，必要时在该窗口重新登录管理员并授权话机。独立窗口不等于防锁屏，仍需调整系统自动锁定；后台响铃不保证。
+
+参考：[WebKit Safari 16.4](https://webkit.org/blog/13966/webkit-features-in-safari-16-4/)、[Apple 独立窗口说明](https://developer.apple.com/library/archive/documentation/AppleApplications/Reference/SafariWebContent/ConfiguringWebApplications/ConfiguringWebApplications.html)。

diff --git a/CHANGELOG.md b/CHANGELOG.md
@@ -1,5 +1,11 @@
 # Changelog
 
+## 0.6.2
+
+- Enlarge all four standby clocks to use tablet width and height, with extra space when seconds are hidden.
+- Add a user-triggered fullscreen/exit control with standard and legacy WebKit capability detection, clear refusal guidance, and Home Screen standalone support.
+- Refresh bilingual guides and synthetic previews; retain current authorization, sound and control settings.
+
 ## 0.6.1 — 2026-09-07
 
 - Simplify phone standby to a central clock, grouped date/counts and a corner settings entry; remove the idle masthead, slogan and permanent status strip.

diff --git a/docs/demo-gallery.md b/docs/demo-gallery.md
@@ -1,6 +1,6 @@
 # 界面图集 · Interface gallery
 
-这些 v0.6.1 预览由真实界面自动截图生成。住户、入口、视频与音频均为合成示例；Screenshots show version 0.6.1 using synthetic data.
+这些 v0.6.2 预览由真实界面自动截图生成。住户、入口、视频与音频均为合成示例；Screenshots show version 0.6.2 using synthetic data.
 
 [中文手册](user-guide.zh-CN.md) · [English guide](user-guide.md) · [离线交互图集](demo/index.html)
 
